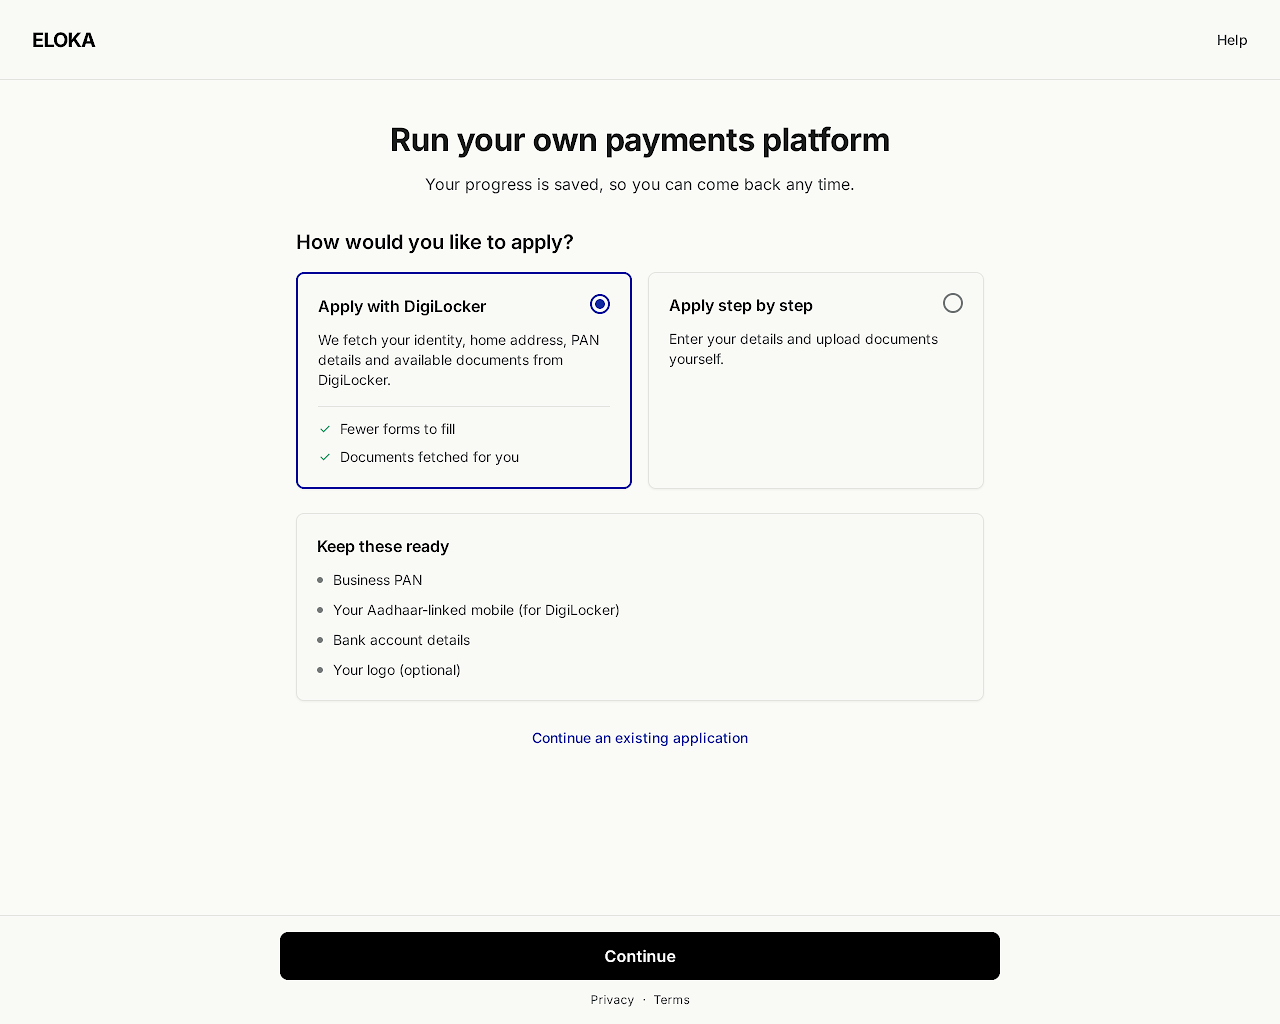
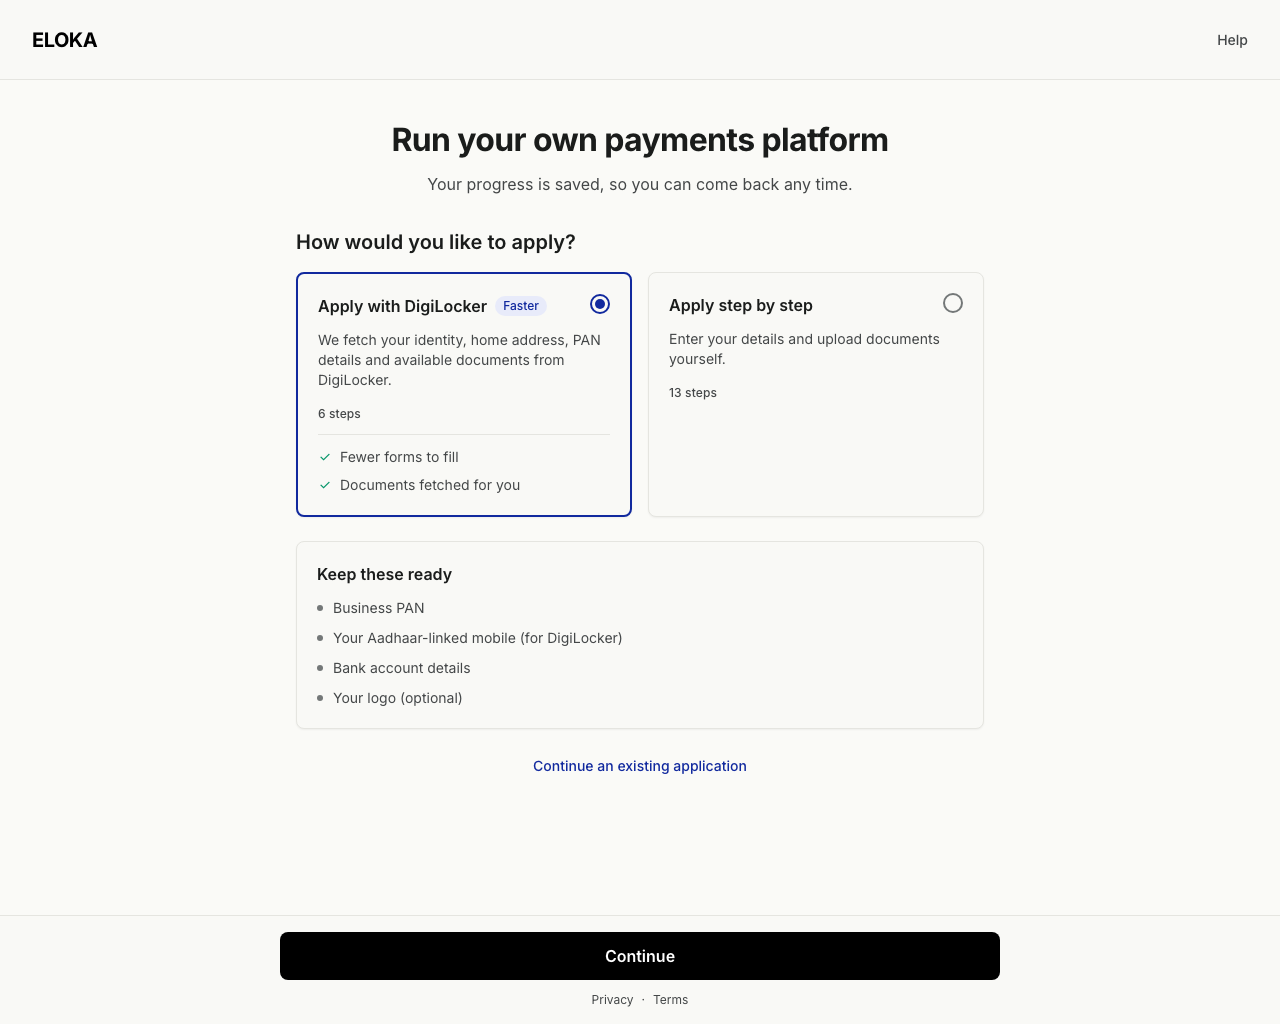
docs(client): fix the desktop start, business details and DigiLocker designs

diff --git a/client/.stitch/designs/APP-22-desktop.html b/client/.stitch/designs/APP-22-desktop.html
@@ -120,44 +120,18 @@
 </header>
 <div class="flex flex-1 overflow-hidden">
 <!-- SideNavBar -->
-<aside class="hidden md:flex flex-col p-space-lg w-[280px] h-[calc(100vh-4rem)] fixed left-0 top-16 bg-surface-container-low dark:bg-surface-container-low border-r border-outline-variant overflow-y-auto">
-<div class="mb-space-lg">
-<h2 class="text-h2 font-h2 font-bold text-primary">Onboarding Progress</h2>
+<aside class="hidden md:flex flex-col p-space-lg w-[280px] h-[calc(100vh-4rem)] fixed left-0 top-16 bg-surface-container-low dark:bg-surface-container-low border-r border-outline-variant overflow-y-auto"><div class="mb-space-lg">
+<h2 class="text-h2 font-h2 font-bold text-primary">Your application</h2>
 <p class="text-body-sm font-body-sm text-on-surface-variant mt-space-xs">Step 3 of 6</p>
 </div>
 <nav class="flex flex-col space-y-space-xs">
-<!-- Step 1 -->
-<a class="flex items-center gap-space-md p-space-sm rounded-lg text-on-surface-variant hover:bg-surface-variant transition-all duration-200 text-body-sm font-body-sm" href="#">
-<span class="material-symbols-outlined text-primary" style="font-size: 20px;">check_circle</span>
-<span>You</span>
-</a>
-<!-- Step 2 -->
-<a class="flex items-center gap-space-md p-space-sm rounded-lg text-on-surface-variant hover:bg-surface-variant transition-all duration-200 text-body-sm font-body-sm" href="#">
-<span class="material-symbols-outlined text-primary" style="font-size: 20px;">check_circle</span>
-<span>Home Address</span>
-</a>
-<!-- Step 3 (Active) -->
-<div class="flex items-center gap-space-md p-space-sm bg-secondary-container text-on-secondary-container font-h3 rounded-lg text-body-sm">
-<span class="material-symbols-outlined" style="font-size: 20px; font-variation-settings: 'FILL' 1;">radio_button_checked</span>
-<span>Business</span>
-</div>
-<!-- Step 4 -->
-<a class="flex items-center gap-space-md p-space-sm rounded-lg text-on-surface-variant hover:bg-surface-variant transition-all duration-200 text-body-sm font-body-sm" href="#">
-<span class="material-symbols-outlined text-outline" style="font-size: 20px;">radio_button_unchecked</span>
-<span>Business Address</span>
-</a>
-<!-- Step 5 -->
-<a class="flex items-center gap-space-md p-space-sm rounded-lg text-on-surface-variant hover:bg-surface-variant transition-all duration-200 text-body-sm font-body-sm" href="#">
-<span class="material-symbols-outlined text-outline" style="font-size: 20px;">radio_button_unchecked</span>
-<span>Documents</span>
-</a>
-<!-- Step 6 -->
-<a class="flex items-center gap-space-md p-space-sm rounded-lg text-on-surface-variant hover:bg-surface-variant transition-all duration-200 text-body-sm font-body-sm" href="#">
-<span class="material-symbols-outlined text-outline" style="font-size: 20px;">radio_button_unchecked</span>
-<span>Confirm</span>
-</a>
-</nav>
-</aside>
+<a class="flex items-center gap-space-md p-space-sm rounded-lg text-on-surface-variant text-body-sm font-body-sm" href="#"><span class="material-symbols-outlined text-primary" style="font-size: 20px;">check_circle</span><span>Mobile number</span></a>
+<a class="flex items-center gap-space-md p-space-sm rounded-lg text-on-surface-variant text-body-sm font-body-sm" href="#"><span class="material-symbols-outlined text-primary" style="font-size: 20px;">check_circle</span><span>DigiLocker</span></a>
+<div class="flex items-center gap-space-md p-space-sm bg-secondary-container text-on-secondary-container font-h3 rounded-lg text-body-sm"><span class="material-symbols-outlined" style="font-size: 20px; font-variation-settings: 'FILL' 1;">radio_button_checked</span><span>Check details</span></div>
+<a class="flex items-center gap-space-md p-space-sm rounded-lg text-on-surface-variant text-body-sm font-body-sm" href="#"><span class="material-symbols-outlined text-outline" style="font-size: 20px;">radio_button_unchecked</span><span>Bank account</span></a>
+<a class="flex items-center gap-space-md p-space-sm rounded-lg text-on-surface-variant text-body-sm font-body-sm" href="#"><span class="material-symbols-outlined text-outline" style="font-size: 20px;">radio_button_unchecked</span><span>Platform setup</span></a>
+<a class="flex items-center gap-space-md p-space-sm rounded-lg text-on-surface-variant text-body-sm font-body-sm" href="#"><span class="material-symbols-outlined text-outline" style="font-size: 20px;">radio_button_unchecked</span><span>Declaration and agreement</span></a>
+</nav></aside>
 <!-- Main Content Canvas -->
 <main class="flex-1 md:ml-[280px] overflow-y-auto bg-background p-space-2xl md:p-space-4xl flex justify-center">
 <div class="w-full max-w-[720px] pb-space-4xl">

diff --git a/client/.stitch/designs/APP-07-desktop.html b/client/.stitch/designs/APP-07-desktop.html
@@ -229,7 +229,7 @@ SAMPLE TRADERS PRIVATE LIMITED
 <div class="grid grid-cols-2 gap-4">
 <div>
 <label class="block text-label font-medium text-on-surface-variant mb-1">Authorised signatory name</label>
-<input class="w-full bg-surface-container-lowest border border-outline-variant rounded-lg px-3 py-2.5 text-body text-on-surface focus:border-connect-blue focus:ring-1 focus:ring-connect-blue" type="text" value="Rahul Sharma"/>
+<input class="w-full bg-surface-container-lowest border border-outline-variant rounded-lg px-3 py-2.5 text-body text-on-surface focus:border-connect-blue focus:ring-1 focus:ring-connect-blue" type="text" value="Ravi Sample"/>
 </div>
 <div>
 <label class="block text-label font-medium text-on-surface-variant mb-1">Alternate mobile (optional)</label>
@@ -254,7 +254,7 @@ SAMPLE TRADERS PRIVATE LIMITED
 <div class="border-2 border-dashed border-outline-variant rounded-xl p-6 text-center hover:border-connect-blue transition-colors cursor-pointer bg-surface-container-low">
 <span class="material-symbols-outlined text-3xl text-on-surface-variant mb-2">cloud_upload</span>
 <p class="text-body-sm font-semibold text-on-surface">Click to upload signature</p>
-<p class="text-label text-on-surface-variant mt-1">SVG, PNG, or JPG (max. 2MB)</p>
+<p class="text-label text-on-surface-variant mt-1">JPG, PNG or PDF, up to 10 MB</p>
 </div>
 </div>
 </div>

diff --git a/client/.stitch/designs/APP-01-desktop.html b/client/.stitch/designs/APP-01-desktop.html
@@ -136,6 +136,7 @@
 <div class="flex items-start justify-between mb-3">
 <div class="flex items-center gap-2">
 <span class="font-h3 text-h3 text-on-background">Apply with DigiLocker</span>
+<span class="px-2 py-0.5 rounded-full text-xs font-medium bg-[#E8EBFA] text-[#11299E]">Faster</span>
 </div>
 <!-- Custom Radio Selected -->
 <div class="w-5 h-5 rounded-full border-2 border-[#11299E] flex items-center justify-center shrink-0">
@@ -145,6 +146,7 @@
 <p class="font-body-sm text-body-sm text-on-surface-variant mb-4">
             We fetch your identity, home address, PAN details and available documents from DigiLocker.
           </p>
+<p class="font-label text-label text-on-surface-variant mb-3">6 steps</p>
 </div>
 <div class="border-t border-[#E5E5E0] pt-3 flex flex-col gap-2">
 <div class="flex items-center gap-2 font-body-sm text-body-sm text-on-surface-variant">
@@ -168,6 +170,7 @@
 <p class="font-body-sm text-body-sm text-on-surface-variant">
             Enter your details and upload documents yourself.
           </p>
+<p class="font-label text-label text-on-surface-variant mt-4">13 steps</p>
 </div>
 </div>
 </div>
